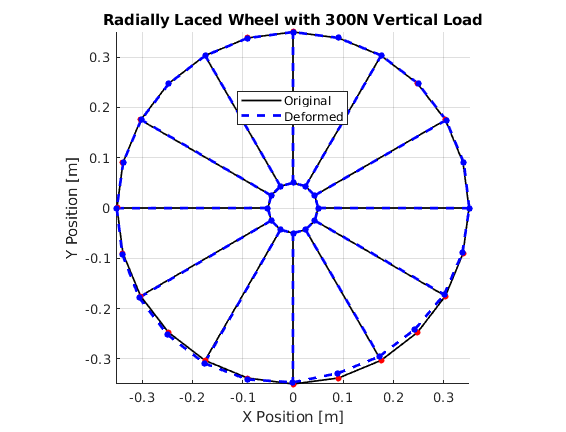
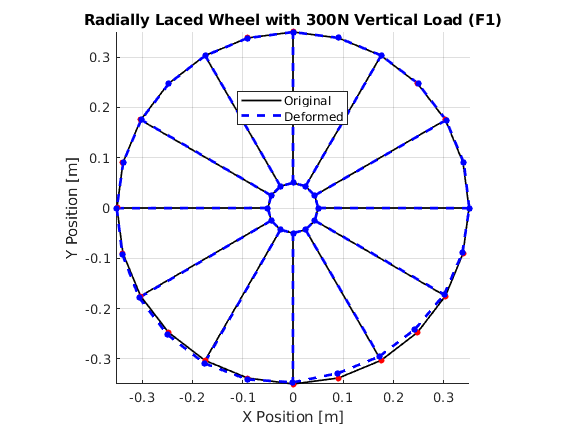
functional stress

Changed region(s): [[0.1502, 0.0301, 0.9011, 0.0602]]

diff --git a/CalcStress.m b/CalcStress.m
@@ -1,4 +1,4 @@
-function [sig_xx, sig_yy] = CalcStress(spoke, rim, X, Y, U, N_func, N_diff, nodemap)
+function [sig_xx, sig_yy] = CalcStress(spoke, rim, X, Y, U, nodemap)
 
     map_hub = nodemap(1:spoke.count,1:2);  % separating hub elements
     
@@ -11,14 +11,28 @@ function [sig_xx, sig_yy] = CalcStress(spoke, rim, X, Y, U, N_func, N_diff, node
     sig_xx = zeros(num_nodes,1);        
     sig_yy = zeros(num_nodes,1); 
     
+    [spoke.sig_xx, spoke.sig_yy] = spoke_Stress(spoke, U, map_spoke);
     
+    sig_xx(map_spoke(:,1)) = sig_xx(map_spoke(:,1)) + spoke.sig_xx;
+    sig_yy(map_spoke(:,1)) = sig_yy(map_spoke(:,1)) + spoke.sig_yy;
+    sig_xx(map_spoke(:,2)) = sig_xx(map_spoke(:,2)) + spoke.sig_xx;
+    sig_yy(map_spoke(:,2)) = sig_yy(map_spoke(:,2)) + spoke.sig_yy;
+
     
-    [ sig_xx(map_spoke(:,1)) , sig_yy(map_spoke(:,1))] = [ sig_xx(map_spoke(:,1)) , sig_yy(map_spoke(:,1))]+spoke_Stress(spoke, U, map_spoke);
-    [ sig_xx(map_spoke(:,2)) , sig_yy(map_spoke(:,2))] = [ sig_xx(map_spoke(:,2)) , sig_yy(map_spoke(:,2))]+spoke_Stress(spoke, U, map_spoke);
+    [rim.sig_xx, rim.sig_yy] = rim_Stress(rim, spoke, X, Y, U, map_rim);
+    sig_xx(map_rim(:,1)) = sig_xx(map_rim(:,1)) + rim.sig_xx;
+    sig_yy(map_rim(:,1)) = sig_yy(map_rim(:,1)) + rim.sig_yy;
+    sig_xx(map_rim(:,2)) = sig_xx(map_rim(:,2)) + rim.sig_xx;
+    sig_yy(map_rim(:,2)) = sig_yy(map_rim(:,2)) + rim.sig_yy;
+    sig_xx(map_rim(:,3)) = sig_xx(map_rim(:,3)) + rim.sig_xx;
+    sig_yy(map_rim(:,3)) = sig_yy(map_rim(:,3)) + rim.sig_yy;
     
-    [ sig_xx(map_rim(:,1)) , sig_yy(map_rim(:,1))] = [ sig_xx(map_rim(:,1)) , sig_yy(map_rim(:,1))]+rim_Stress(rim, X, Y, U, N_func, N_diff, map_rim);
-    [ sig_xx(map_rim(:,2)) , sig_yy(map_rim(:,2))] = [ sig_xx(map_rim(:,2)) , sig_yy(map_rim(:,2))]+rim_Stress(rim, X, Y, U, N_func, N_diff, map_rim);
-    [ sig_xx(map_rim(:,3)) , sig_yy(map_rim(:,3))] = [ sig_xx(map_rim(:,3)) , sig_yy(map_rim(:,3))]+rim_Stress(rim, X, Y, U, N_func, N_diff, map_rim);
+%     [ sig_xx(map_spoke(:,1)) , sig_yy(map_spoke(:,1))] = [ sig_xx(map_spoke(:,1)) , sig_yy(map_spoke(:,1))]+spoke_Stress(spoke, U, map_spoke);
+%     [ sig_xx(map_spoke(:,2)) , sig_yy(map_spoke(:,2))] = [ sig_xx(map_spoke(:,2)) , sig_yy(map_spoke(:,2))]+spoke_Stress(spoke, U, map_spoke);
+    
+%     [ sig_xx(map_rim(:,1)) , sig_yy(map_rim(:,1))] = [ sig_xx(map_rim(:,1)) , sig_yy(map_rim(:,1))]+rim_Stress(rim, X, Y, U, map_rim);
+%     [ sig_xx(map_rim(:,2)) , sig_yy(map_rim(:,2))] = [ sig_xx(map_rim(:,2)) , sig_yy(map_rim(:,2))]+rim_Stress(rim, X, Y, U, map_rim);
+%     [ sig_xx(map_rim(:,3)) , sig_yy(map_rim(:,3))] = [ sig_xx(map_rim(:,3)) , sig_yy(map_rim(:,3))]+rim_Stress(rim, X, Y, U, map_rim);
     
     
 end
@@ -34,14 +48,14 @@ function [sig_xx, sig_yy] = spoke_Stress(spoke, U, spoke_nodemap)
 end
 
 
-function [sig_xx, sig_yy] = rim_Stress(rim, X, Y, U, map_rim)
+function [sig_xx, sig_yy] = rim_Stress(rim, spoke, Xe, Ye, U, map_rim)
     
 
     start_angle = atan(Ye(2) / Xe(2));
     r = rim.diameter / 2;
     d_theta = 2 * pi / (spoke.count);
     
-    theta_arr = [-d_theta/2, 0, d_theta/2] + ang_offset + start_angle;
+    theta_arr = [-d_theta/2, 0, d_theta/2] + 0.1 + start_angle;
     Le = r*d_theta;
 
     syms S
@@ -74,9 +88,24 @@ function [sig_xx, sig_yy] = rim_Stress(rim, X, Y, U, map_rim)
     n_rim = n_rim(1);
     sig_xx = [];
     sig_yy = [];
-    for i = 1:n_rim  
-        [sig_x,sig_y,] =  E*B*U(map_rim(i,:));                     % stress calculation
-        [sig_xx, sig_yy] = [sig_xx, sig_yy ; sig_x , sig_y];    % appending sigmas
+    for i = 1:n_rim 
+        dofs = max(map_rim(i,:))*2 - 5:max(map_rim(i,:)*2);
+        sig =  E_rim*B*U(dofs);                     % stress calculation
+        sig_x = sig(1);
+        sig_y = sig(2);
+        sig_xx = [sig_xx; sig_x];    % appending sigmas
+        sig_yy = [sig_yy; sig_y];
     end
+    
+    sig_xxd = 0;
+    sig_yyd = 0;
+    w = [5/9, 8/9, 5/9] * Le;
+    for ii = 1:3
+        sig_xxd = sig_xxd + subs(sig_xx, S, w(ii));
+        sig_yyd = sig_yyd + subs(sig_yy, S, w(ii));
+    end
+   
+    sig_xx = sig_xxd;
+    sig_yy = sig_yyd;
     
 end

diff --git a/main.m b/main.m
@@ -29,10 +29,16 @@ rim.Ae = rim.depth * rim.thickness; %m^2
 
 
 %% Modifiable Parameters
+% i = 1;
+% 
+% for spoke_count = 6:4:36
+% tic
+% spoke.count = spoke_count;
+
 spoke.count = 12;
-% spoke.pattern = 'radial'; %Minimum 3 spokes
+spoke.pattern = 'radial'; %Minimum 3 spokes
 % spoke.pattern = '1-cross'; %Minimum 6 spokes (Even Number Only)
-spoke.pattern = '2-cross'; %Minimum 12 spokes (Even Number Only)
+% spoke.pattern = '2-cross'; %Minimum 12 spokes (Even Number Only)
 % spoke.pattern = '3-cross'; %Minimum 18 spokes (Even Number Only)
 % 3 Nodes per element on rim
 rim.elem_count = spoke.count;
@@ -66,19 +72,21 @@ freedofs = setdiff(alldofs, fixeddofs);
 
 F = zeros(2*nnodes, 1);
 F_load = 300; %N
-% F(2*spoke.count + 4) = F_load; %F1
+F(2*spoke.count + 4) = F_load; %F1
 % F(2*spoke.count + 3) = -F_load; %F2
-F(2*spoke.count + 6) = F_load; %F3
+% F(2*spoke.count + 6) = F_load; %F3
 U = zeros(2*nnodes, 1); %2DoF per node
 K_reduced = K_global(freedofs, freedofs);
 U(freedofs) = K_reduced \ F(freedofs);
 
+%% Stress Calculation
+[s_xx, s_yy] = CalcStress(spoke, rim, glob_coord(1,:), glob_coord(2,:), U, nodemap)
 
 
 
 %% Analysis Outputs
 % print_details = input('Would you like to print fine details? [y, n] ', 's');
-print_details = 'y'
+print_details = 'y';
 if strcmp(print_details, 'y')
 %     fprintf('Node Map; Nodes of value 0 do not exist.\n')
 %     disp(nodemap)
@@ -92,14 +100,18 @@ if strcmp(print_details, 'y')
 %     disp(node_def)
     
     
-    [max_def_row, ~] = ind2sub(size(node_def), find(node_def == max(max(node_def))));
-    fprintf('Maximum deflection occurs at node: %d\nDeflections [mm]: X = %0.3f, Y = %0.3f\n', ...
+    [max_def_row, ~] = ind2sub(size(node_def), find(abs(node_def) == max(max(abs(node_def(:,2:3))))));
+    fprintf('Maximum deflection occurs at node: %d\nDeflections [mm]: X = %0.3e, Y = %0.3e\n', ...
         node_def(max_def_row, 1), node_def(max_def_row, 2), node_def(max_def_row, 3))
     
 end
+% max_def(i, :) = [spoke.count, node_def(max_def_row, 2), node_def(max_def_row, 3)];
+% calc_time(i, :) = [spoke.count, toc];
+% i = i + 1;
+% end
 
-% PlotStructure(spoke, glob_coord, U, nodemap)
-
+PlotStructure(spoke, glob_coord, U, nodemap)
+PlotStressStructure(spoke, glob_coord, s_xx, s_yy, nodemap);
 
 
 
